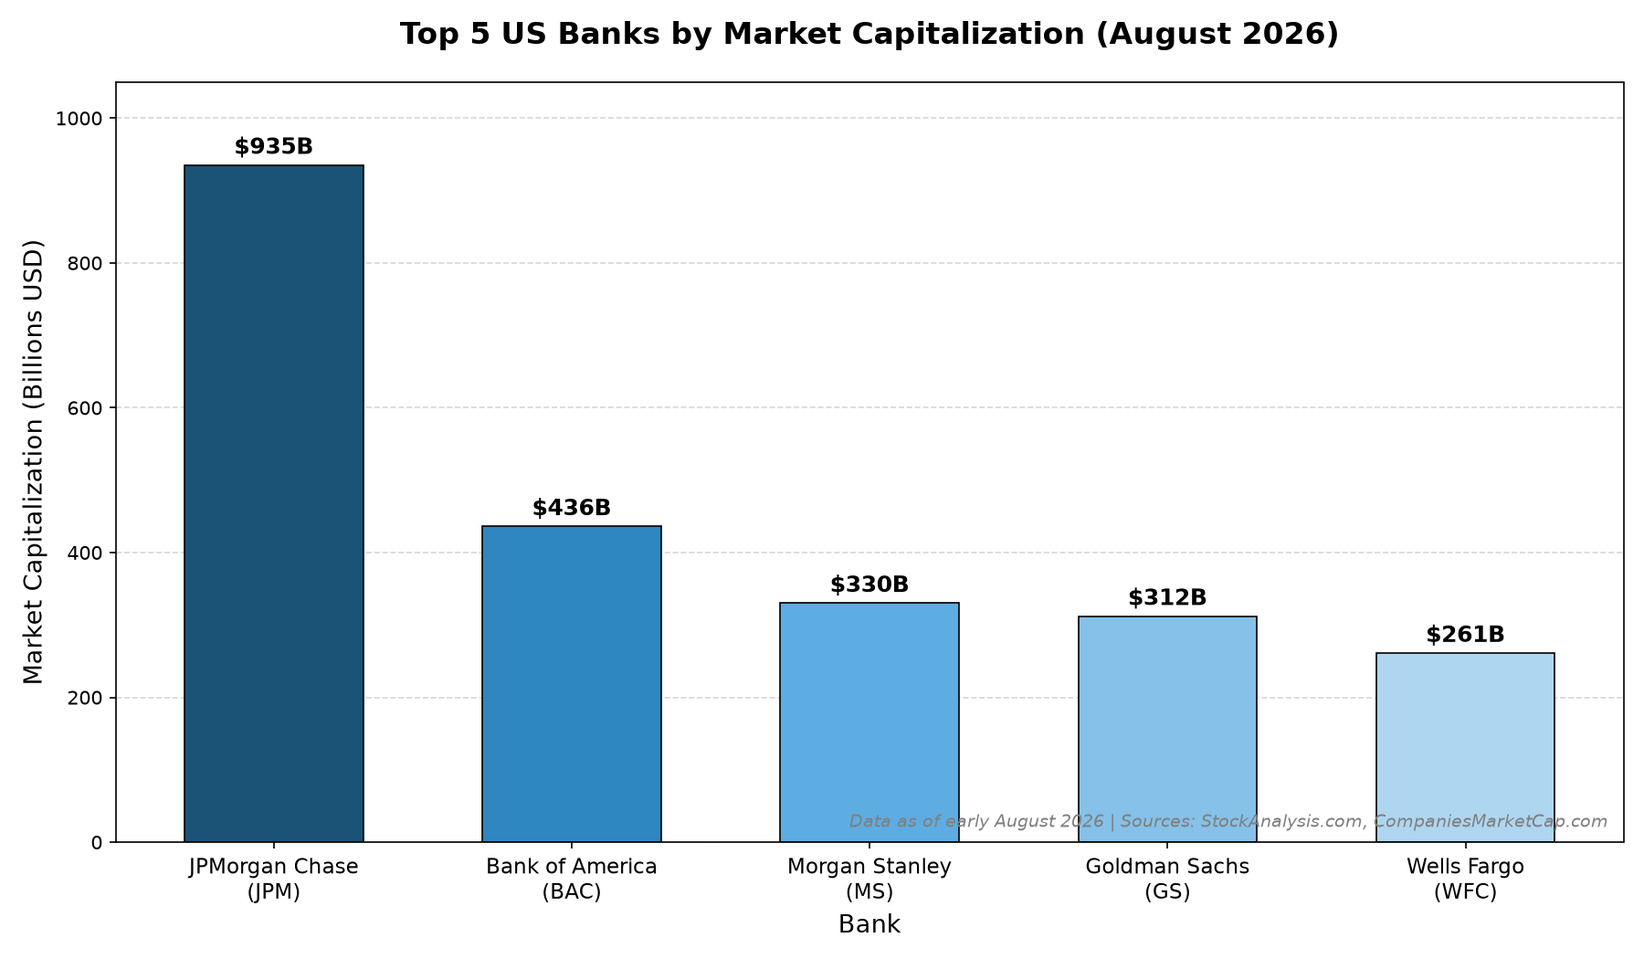
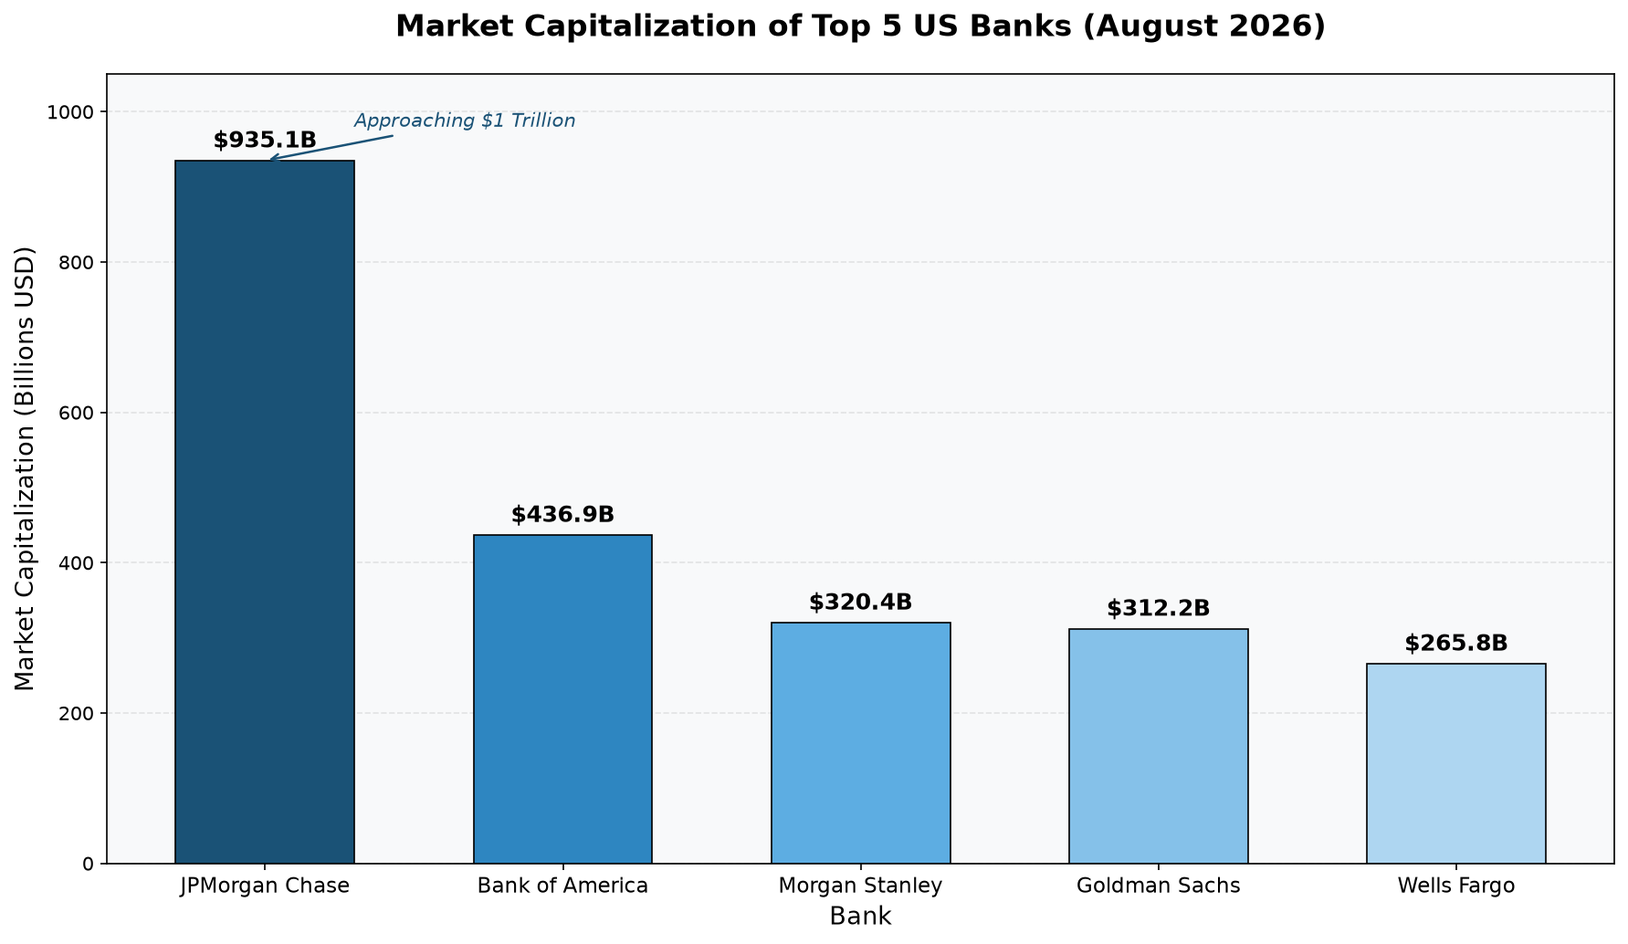
docs(eval): 课21 L7 补充 SpanQuery/回写实操+错例判读, L10/L6 笔记微调
Claude-Session: https://claude.ai/code/session_01XqWTFFDHWqhaw9SissKYUR

diff --git a/agent/courses/eval/21-Evaluating AI Agents/code/L7/demo_span_query.py b/agent/courses/eval/21-Evaluating AI Agents/code/L7/demo_span_query.py
@@ -1,0 +1,45 @@
+"""演示 1: trace 是可程序化查询的数据集 — 同一批 span, 按不同条件切出不同的'表'"""
+import pandas as pd
+from phoenix.client import Client
+from phoenix.client.types.spans import SpanQuery
+
+pd.set_option("display.max_colwidth", 60)
+pd.set_option("display.width", 200)
+
+client = Client(base_url="http://localhost:6006")
+PROJECT = "evaluating-agent"
+
+print("=" * 70)
+print("查法① 宽条件: 项目里所有 span (只取 span_kind 一列, 看全貌)")
+df = client.spans.get_spans_dataframe(
+    query=SpanQuery().where("span_kind in ('AGENT','CHAIN','LLM','TOOL')").select("span_kind"),
+    project_name=PROJECT,
+    timeout=120,
+)
+print(f"   -> DataFrame: {df.shape[0]} 行 x {df.shape[1]} 列")
+print(f"   -> 索引是什么: {df.index.name}, 例如 {df.index[0]}")
+print(f"   -> span 种类分布:\n{df.iloc[:, -1].value_counts().to_string()}")
+
+print()
+print("=" * 70)
+print("查法② where 过滤 + select 投影: 只要 AGENT span 的问题和最终回答")
+q = SpanQuery().where("span_kind == 'AGENT'").select("input.value", "output.value")
+agent_df = client.spans.get_spans_dataframe(query=q, project_name=PROJECT, timeout=120)
+print(f"   -> {agent_df.shape[0]} 行 x {agent_df.shape[1]} 列 (列被裁成 select 的两个)")
+print(agent_df.head(3).to_string())
+
+print()
+print("=" * 70)
+print("查法③ 按 span 名字过滤: 只要画图工具的输出 (= Runnable Code Eval 的输入)")
+q = SpanQuery().where("name == 'generate_visualization'").select("output.value")
+viz_df = client.spans.get_spans_dataframe(query=q, project_name=PROJECT, timeout=120)
+print(f"   -> {viz_df.shape[0]} 行")
+print("   -> 第一行 output.value 前 120 字符:")
+print("      " + str(viz_df.iloc[0, 0])[:120].replace("\n", " / "))
+
+print()
+print("=" * 70)
+print("查法④ 字符串包含: 只要提示词里带 'Generate an SQL query' 的 LLM span")
+q = SpanQuery().where("span_kind == 'LLM' and 'Generate an SQL query' in input.value")
+sql_df = client.spans.get_spans_dataframe(query=q, project_name=PROJECT, timeout=120)
+print(f"   -> {sql_df.shape[0]} 行 (同一批 trace, 换个条件就切出另一张表)")

diff --git a/agent/courses/eval/21-Evaluating AI Agents/code/L7/demo_writeback.py b/agent/courses/eval/21-Evaluating AI Agents/code/L7/demo_writeback.py
@@ -1,0 +1,35 @@
+"""演示 2: 评估结果回写 — 发明一个课程里没有的评估 'Answer Brevity Demo'
+
+流程 = L7 的通用三步:
+  ① SpanQuery 导出目标 span (拿到以 span_id 为索引的 DataFrame)
+  ② 打标签 (这里用纯代码: 回答字数 < 800 算 concise, 否则 verbose)
+  ③ log_span_annotations_dataframe 回写 (靠 DataFrame 索引里的 span_id 对号入座)
+"""
+import pandas as pd
+from phoenix.client import Client
+from phoenix.client.types.spans import SpanQuery
+
+client = Client(base_url="http://localhost:6006")
+PROJECT = "evaluating-agent"
+
+# ① 导出: 所有 AGENT span 的最终回答
+q = SpanQuery().where("span_kind == 'AGENT'").select("output.value")
+df = client.spans.get_spans_dataframe(query=q, project_name=PROJECT, timeout=120)
+df = df.rename(columns={"output.value": "response"}).dropna(subset=["response"])
+print(f"① 导出 {len(df)} 个 AGENT span, 索引 = {df.index.name}")
+
+# ② 打标签: 纯 pandas, 不涉及任何 LLM
+df["chars"] = df["response"].str.len()
+df["label"] = df["chars"].map(lambda n: "concise" if n < 800 else "verbose")
+df["score"] = (df["label"] == "concise").astype(int)
+print("② 打完标签的评估表 (前 5 行):")
+print(df[["chars", "label", "score"]].head(5).to_string())
+print(f"   简洁率: {df['score'].mean():.2f}")
+
+# ③ 回写: 只需要 label/score 两列, span_id 在索引里
+client.spans.log_span_annotations_dataframe(
+    dataframe=df[["label", "score"]],
+    annotation_name="Answer Brevity Demo",
+    annotator_kind="CODE",
+)
+print(f"③ 已把 {len(df)} 条 'Answer Brevity Demo' 注解回写到 Phoenix — 去 UI 刷新看新徽章")

diff --git a/agent/courses/eval/21-Evaluating AI Agents/notes/L7-补充2-学习路径-错例判读与Phoenix定位.md b/agent/courses/eval/21-Evaluating AI Agents/notes/L7-补充2-学习路径-错例判读与Phoenix定位.md
@@ -1,0 +1,80 @@
+# L7 补充 2：学习路径、错例判读与 Phoenix 定位
+
+> 2026-08-06 结合本地 Phoenix（`evaluating-agent` 项目）实操 L7 的对话沉淀。
+> 姊妹篇：《L7-补充-把trace当数据集-SpanQuery导出与评估回写实操》（SpanQuery 四种查法、回写 demo、坑记录）。
+> 配套脚本：`code/L7/demo_span_query.py`、`code/L7/demo_writeback.py`。
+
+## L7 的推荐学习路径（五步）
+
+1. **先看"评估前"的裸 trace**：跑评估之前，在 UI 里点开一条 trace 认清 span 树的四类角色——顶层 AGENT（input=问题/output=最终回答）、LLM（Router 决策，`llm.output_messages` 里有 tool_calls）、tool span（如 `generate_visualization`）、SQL 生成类 LLM span。刻意记属性名（`input.value`/`output.value`），**UI 里的属性名 = SpanQuery DSL 里的字符串**，这个对应关系建立了这节课就通了。
+2. **跑 `main.py`**：6 个问题产 trace → 四个评估 → 回写。本地版只评当次运行的 span（`start_time=run_started_at`），历史 trace 没注解是正常的。
+3. **UI 逐层验证**：项目聚合 μ 值 ↔ 终端打印的正确率对数；单 span 看徽章明细；按注解过滤看错例。
+4. **错例判读**（见下文）：先审 judge 再动 agent。
+5. **自己加第五个评估**：照 SQL 评估那 20 行模板走一遍"过滤 → 打分 → 回写"，能独立完成说明三步流程内化了（Answer Brevity Demo 即为示例，纯 pandas 约 15 行）。
+
+## 错例判读实战：μ0.74 的真相
+
+Router 的 `Tool Calling Eval` 只有 0.74，过滤 `annotations['Tool Calling Eval'].label == 'incorrect'` 出来 10 条错例，点开第一条：
+
+- 问题 "What was the average transaction value?" 的**第二轮** Router 决策：第一轮已查到 19.018132，第二轮调 `analyze_sales_data(data="...19.018132", prompt=...)`——**行为本身合理**（先查数、再分析）。
+- 但 judge 的 rubric 写着"工具参数包含问题中没有的信息就算 incorrect"，`data` 参数里的数字不来自问题本身，于是被判错。
+
+结论：**分数低不是 agent 差，而是 judge 的 rubric 按"单轮问题→单个工具调用"设计，不适配多轮场景。**
+
+由此得出 L7 最重要的一课：**拿到评估分数后，第一件事不是优化 agent，而是抽查错例、先审 judge。** 修法是改 `TOOL_CALLING_PROMPT`（如声明"工具参数可来自对话历史中的工具结果"）再重跑对比 μ 值。
+
+## Phoenix 到底是什么：三层定位
+
+"Phoenix 就是收 trace 然后展示"只说对了地基。它是完整的 LLM 可观测 + 评估平台：
+
+```mermaid
+flowchart TB
+    subgraph L1[第一层 Tracing 数据底座]
+        A[OpenInference/OTel 自动埋点] --> B[(span 数据库\n磁盘 SQLite)]
+        B --> C[UI 展示 span 树]
+    end
+    subgraph L2[第二层 评估数据库 L7 在这]
+        B -->|SpanQuery 程序化导出| D[DataFrame]
+        D -->|代码/LLM judge 打分| E[label+score]
+        E -->|注解回写| B
+        B --> F[μ聚合/错例过滤/趋势]
+    end
+    subgraph L3[第三层 实验与迭代 L10/L11]
+        G[Datasets 固定测试集] --> H[Experiments 版本对比]
+        I[Playground 改prompt重放]
+        J[Dashboards 持续监控]
+    end
+    L1 --> L2 --> L3
+```
+
+- **UI 只是这个数据库的一个只读窗口（走 GraphQL）**；真正的生产资料是 REST API 这条程序化读写通道，评估、实验、监控全建在它上面。
+- 课程标题是 "Evaluating AI Agents" 而不是 "Tracing"——tracing 只是为评估闭环供数。
+
+## 注解回写到底啥意思、起什么作用
+
+**一句话：把"批改结果"钉在"考卷原件"上，而不是记在自己的小本本里。**
+
+不回写时，评估结果只活在脚本内存的 DataFrame 里——脚本退出就没了，顶多 print 一个"正确率 0.74"；分数和证据是断开的，"哪几条错、错时现场什么样"答不上来。回写（`log_span_annotations_dataframe`）把每行 label/score 作为注解记录写进 Phoenix 数据库，靠 DataFrame 索引里的 span_id 挂回当初被评估的那个 span，从此判定与完整现场永久绑定。
+
+绑定解锁四个能力：
+
+1. **从分数下钻到证据**：μ0.74 → 过滤错例 → 看现场 → 定位是 judge rubric 问题。链路每一步都依赖注解和 span 长在一起。
+2. **聚合与趋势**：UI 的 μ 值、时间范围质量曲线、Dashboards 都是对注解表的聚合；改 prompt 前后两批数据一对比就知道有没有变好。
+3. **单一事实源**：同事打开同一条 trace 看到同样的判定；L9 人工标注（详情页铅笔图标）写进同一张表，机器判与人判并存互校。
+4. **喂给下一环**：注解本身可查询——把 incorrect 的 case 攒成 Dataset，之后每版 prompt 跑实验回归对比（L10/L11 的入口）。
+
+反过来记：**不回写，评估是一次性 print；回写了，评估才是可下钻、可聚合、可对比、可共享的资产。** 类比：代码 review 评论必须写在 PR 的具体行上才落地。
+
+## 新版 Phoenix UI 寻宝图（与课程视频差异）
+
+- **评估聚合不在页面顶部横条**（旧版 UI），在 Spans 页**右侧 Project Info → Stats → SPAN ANNOTATIONS**，形式为 `μ 平均分`。
+- **聚合跟随当前过滤条件**：默认 `parent_id is None`（只看根 span）时，挂在子 span 的评估显示 `--`；清掉过滤四项才全出来。
+- 注解徽章两个位置:列表 annotations 列的小胶囊（多条折叠成 `+N`）；span 详情 Info 首行 `Annotations N`，点徽章看 label/score/author。
+- 徽章只挂在**被评估的 span 那一层**：`Tool Calling Eval` 在 LLM 的 ChatCompletion 上，外层 `router_call`(chain) 是 0——找不到徽章先确认点的层级对不对。
+- 过滤框一点开就有 `annotations[...]` 字段自动补全，错例过滤直接写 `annotations['Tool Calling Eval'].label == 'incorrect'`。
+
+## 环境坑速查（详见姊妹篇坑记录）
+
+- **系统代理截胡 localhost**：Shadowrocket 开系统代理时，Python httpx 读 macOS 系统代理但**读不到例外列表**（系统 bypass 里加了 localhost 也没用，httpx 不消费它），phoenix client 全 503。特征：响应头 `proxy-connection: close` + Phoenix 日志无请求 + UI 正常。解法：shell 配置 `export no_proxy="localhost,127.0.0.1"`（有任何 `*_proxy` 环境变量时 Python 就完全忽略系统代理），或脚本前缀 NO_PROXY、httpx `trust_env=False`。
+- **503 别急着重启**：先看服务端日志有没有收到请求。Phoenix 数据在磁盘 SQLite（`code/.phoenix/phoenix.db`），重启虽不丢数据但多半治不了标。
+- **空条件 SpanQuery 打挂服务端**；tool span Info 页有渲染 bug 切 Attributes 看。

diff --git a/agent/courses/eval/21-Evaluating AI Agents/notes/L7-补充-把trace当数据集-SpanQuery导出与评估回写实操.md b/agent/courses/eval/21-Evaluating AI Agents/notes/L7-补充-把trace当数据集-SpanQuery导出与评估回写实操.md
@@ -1,0 +1,92 @@
+# L7 补充：把 trace 当数据集——SpanQuery 导出与评估回写实操
+
+> L7 正文讲了"导出 → 打标签 → 回写"三步，但"trace 不只是看的"这件事光看 UI 没有体感。
+> 本篇是在本地 Phoenix（`evaluating-agent` 项目，380 个 span）上实跑的记录，配套两个可跑脚本：
+>
+> - `code/L7/demo_span_query.py` —— 同一批 span 的四种查法
+> - `code/L7/demo_writeback.py` —— 现场发明一个课程里没有的评估并回写
+>
+> 运行（注意 `NO_PROXY` 前缀，原因见文末坑记录）：
+>
+> ```bash
+> cd code/L7
+> NO_PROXY="localhost,127.0.0.1" no_proxy="localhost,127.0.0.1" ../.venv/bin/python demo_span_query.py
+> NO_PROXY="localhost,127.0.0.1" no_proxy="localhost,127.0.0.1" ../.venv/bin/python demo_writeback.py
+> ```
+
+## 核心认知：UI 只是数据库的一个只读窗口
+
+Phoenix 把每次 agent 运行拆成 span 存进磁盘 SQLite（本课的库在 `code/.phoenix/phoenix.db`）。UI 走 GraphQL 展示它；而 `SpanQuery` DSL 走 REST API 把它**当数据表查**。评估、实验、监控全部建立在这条程序化读写通道上——这是 Phoenix 区别于普通日志系统的地方。
+
+```mermaid
+flowchart LR
+    A[Agent 运行\n自动埋点] -->|OTLP| B[(Phoenix\nSQLite 库\n380 个 span)]
+    B -->|"① SpanQuery 导出\nwhere + select"| C[pandas DataFrame\n索引 = span_id]
+    C -->|"② 打标签\n代码 or LLM judge"| D[label / score 列]
+    D -->|"③ log_span_annotations\n按 span_id 对号入座"| B
+    B --> E[UI 徽章 / μ聚合 / 错例过滤]
+```
+
+## 实验 1：同一批 span，换个条件就是另一张表
+
+`demo_span_query.py` 对同一个项目连查四把：
+
+| 查询 | 条件 | 结果 |
+|---|---|---|
+| ① 全貌 | `span_kind in ('AGENT','CHAIN','LLM','TOOL')` + select `span_kind` | 380 行：CHAIN 166 / LLM 135 / TOOL 55 / AGENT 24 |
+| ② 问答对 | `span_kind == 'AGENT'` + select `input.value`, `output.value` | 24 行两列，即 Response Clarity 评估的原料 |
+| ③ 画图代码 | `name == 'generate_visualization'` + select `output.value` | 4 行，内容开头就是 `import matplotlib...` |
+| ④ SQL 生成 | `span_kind == 'LLM' and 'Generate an SQL query' in input.value` | 31 行 |
+
+这正呼应 L7 正文那句"设计评估最难的一步是过滤出正确的那批 span"——`where` 可组合 span_kind、name、任意属性、字符串包含。
+
+## 关键机制：DataFrame 的索引就是 span_id
+
+导出的 DataFrame 索引是 `context.span_id`（如 `02bff35fa00dc45b`）。**这就是回写不神奇的原因**：每行自带身份证，打完标签把 `label`/`score` 两列交回去，Phoenix 按索引把标签贴回对应 span，全程不需要手写任何匹配逻辑。
+
+```
+                  chars    label  score
+context.span_id
+1f442b466be930d1     75  concise      1
+819ea2deee58b887   1117  verbose      0
+```
+
+## 实验 2：三步发明一个新评估（Answer Brevity Demo）
+
+`demo_writeback.py` 用纯 pandas（不涉及 LLM）造了一个课程里不存在的评估——回答超 800 字算 verbose：
+
+```python
+# ① 导出
+q = SpanQuery().where("span_kind == 'AGENT'").select("output.value")
+df = client.spans.get_spans_dataframe(query=q, project_name=PROJECT, timeout=120)
+
+# ② 打标签
+df["label"] = df["response"].str.len().map(lambda n: "concise" if n < 800 else "verbose")
+df["score"] = (df["label"] == "concise").astype(int)
+
+# ③ 回写
+client.spans.log_span_annotations_dataframe(
+    dataframe=df[["label", "score"]],
+    annotation_name="Answer Brevity Demo",
+    annotator_kind="CODE",
+)
+```
+
+实跑结果：21 个 AGENT span，简洁率 0.81；唯一的 verbose 正是"画柱状图"那条 1117 字的长回答。刷新 UI 后每个 AgentRun 的注解徽章从 1 个变 2 个：`Response Clarity` 旁边多了 `Answer Brevity Demo`。
+
+核心代码约 15 行——**写一个新评估器的边际成本就这么低**，这也是为什么 L7 结尾鼓励"给每个部位都配评估器"。
+
+## UI 里注解徽章在哪（新版 Phoenix）
+
+- **Spans/Traces 列表**的 annotations 列：每行的小胶囊（多条时折叠成 `+2`）
+- **span 详情面板**：Info 标签下第一行 `Annotations N [徽章...]`，点徽章看 label/score/author 明细
+- **项目聚合**：Spans 页右侧 Project Info → Stats → SPAN ANNOTATIONS，显示 `μ 平均分`。注意它**跟随当前过滤条件**——默认 `parent_id is None`（只看根 span）时，挂在子 span 上的评估会显示 `--`，清掉过滤才能看到全部四项
+- **错例过滤**：过滤框输入 `annotations['Tool Calling Eval'].label == 'incorrect'` 即可只看 judge 判错的 span
+- 徽章只挂在**被评估的那个 span** 上：`Tool Calling Eval` 在 LLM 的 ChatCompletion 上，外层 `router_call`（chain）的 Annotations 是 0
+
+## 坑记录
+
+1. **系统代理截胡 localhost（本次最大坑）**：Mac 开着系统级代理（127.0.0.1:1082）时，Python httpx（phoenix client 底层）会读 **macOS 系统代理设置**（即使 `env | grep proxy` 为空！），把发往 `localhost:6006` 的请求交给代理，全量 503。诊断特征：响应头带 `proxy-connection: close` + Phoenix 服务端日志无请求记录 + UI 一切正常（浏览器有自己的绕行规则，极具迷惑性）。解法：脚本加 `NO_PROXY` 前缀（临时）或在代理工具绕过列表加 localhost（根治）。`main.py` 同样受影响，会随代理开关"时好时坏"。
+2. **空条件 SpanQuery 会打挂服务端**：`SpanQuery()` 不带 where 拉全量直接 503/超时，导出永远带过滤条件；全库大了之后（本库 936MB）宽查询还要配大 `timeout` 和窄 `select`。
+3. **误判不要急着重启**：503 时先看服务端日志有没有收到请求，再决定是不是服务问题。Phoenix 数据在磁盘 SQLite，重启不丢——但本次的 503 根本不是服务问题。
+4. **tool span 的 Info 页渲染 bug**：`generate_visualization` 的详情 Info 标签白屏（React error #31，渲染 tool JSON schema 触发），切 Attributes 标签看原始属性即可，数据无损。

diff --git a/agent/courses/eval/Building and Evaluating Data Agents/notes/L6-用内联评测与Prompt改写提升GPA收官.md b/agent/courses/eval/Building and Evaluating Data Agents/notes/L6-用内联评测与Prompt改写提升GPA收官.md
@@ -8,7 +8,7 @@
 L5 停在"知道 agent 病在哪"（Q1 的 plan adherence = 0，行动没照计划走）。本课开场给出改 GPA 的**常见手段清单**：
 
 | 手段 | 做法 | 治哪种病 |
-|---|---|---|
+| --- | --- | --- |
 | **调 planning prompt** | 给每步加显式 subgoal + pre/post condition | 计划含糊、执行不知每步该干嘛 |
 | **inline evaluation** | 运行中实时给 agent 反馈分数+解释 | 检索漏关键信息、无法当场纠偏 |
 | 调 retriever / 换模型 | 调检索参数、试不同 LLM | 检索病、生成病 |
@@ -38,6 +38,7 @@ def cortex_agents_research_node(state: State) -> Command[...]:
 ```
 
 要点：
+
 - inline eval **直接跑在** node 声明的 span attributes 上（复用 L4 埋点，不重复造轮子）；
 - 评完的 **score + explanation 追加进 state 的 messages**——这就是"反馈进 memory"的落地方式；
 - 效果：agent 做完一次 research 能"看见"自己检索得好不好，**缺料就补检索、必要就 replan**，而不是一条道走到黑。
@@ -46,7 +47,7 @@ def cortex_agents_research_node(state: State) -> Command[...]:
 
 ## 2. 招式二：改 Planning Prompt（给每步装上 pre/post condition）
 
-L5 诊断的病根是 plan adherence——executor 不知道每步到底要达成什么，就容易跑偏。对症下药：**扩展 planning prompt 的输出模板**，逼 planning LLM 给每步显式写出 **precondition / postcondition / goal 描述**：
+L5 诊断的病根是 plan adherence（计划遵循度）——executor 不知道每步到底要达成什么，就容易跑偏。对症下药：**扩展 planning prompt 的输出模板**，逼 planning LLM 给每步显式写出 **precondition / postcondition / goal 描述**：
 
 ```python
 # 概念示意（据课程讲述重构）：patch 掉原 plan prompt 的输出模板
@@ -77,7 +78,7 @@ tru_recorder = TruGraph(
 **Leaderboard 对比**（新版 vs base 版）：
 
 | 指标 | 变化 | 解读 |
-|---|---|---|
+| --- | --- | --- |
 | Answer Relevance | ↑ 提升 | 答得更切题 |
 | Groundedness | ↑ **提升明显** | 补检索让论断更有据 |
 | Context Relevance | ≈ 持平 | 检索相关性没动 |
@@ -123,7 +124,7 @@ improved 版右侧**多出的 web/cortex research 调用**，正是 **inline eva
 ### ② L1-L6 全课回顾表
 
 | 课 | 主题 | 交付物 / 核心动作 | 引入的关键概念 |
-|---|---|---|---|
+| --- | --- | --- | --- |
 | L1 | Data agent 是什么 | 定义 + 何时可信 | LLM 驱动、连数据源、query 分解→检索→分析→可视化 |
 | L2 | 搭多 agent workflow | 用 LangGraph 实现分层 agent | planner→executor→子 agent（web researcher / chart generator / chart summarizer / synthesizer） |
 | L3 | 接企业数据 | 加 cortex researcher | Snowflake Cortex Analyst（text-to-SQL）+ Cortex Search（会议纪要） |
@@ -140,6 +141,7 @@ improved 版右侧**多出的 web/cortex research 调用**，正是 **inline eva
 > **① data agent 何时值得上多 agent 架构？** 当任务需要**跨异构数据源做 query 分解 + 多步研究 + 合成**（本课：Snowflake 结构化 deal 数据 + 非结构化会议纪要 + web 新闻三源汇聚）时,单体 agent 的 prompt 塞不下也调不动,分层 planner/executor + 专职子 agent 才划算。反过来,若查询只是单表 text-to-SQL(如 Q1"top 3 deals"),多 agent 是过度设计——一个 Cortex Analyst 调用就够,多出的 planner/executor 只会拉低 execution efficiency。**判据:数据源是否异构 + 是否需要跨源合成 + 步骤是否需要动态 replan。**
 >
 > **② data agent 的评测该测什么?** 两层缺一不可,且**必须解耦成多指标**:
+>
 > - **输出层(RAG Triad)** 回答"答得对不对"——context relevance(检索准不准)、groundedness(有没有编)、answer relevance(切不切题)。三者解耦才能区分"检索病"与"生成病"。
 > - **过程层(GPA)** 回答"过程健不健康"——plan quality/adherence/efficiency/consistency。对多步 agent,过程可评估性 = 可调试性;只测输出你永远不知道错在决策链哪环。
 >
@@ -148,7 +150,7 @@ improved 版右侧**多出的 web/cortex research 调用**，正是 **inline eva
 ## 本课总结
 
 | 要点 | 一句话 |
-|---|---|
+| --- | --- |
 | Inline evaluation | 运行时评某步、把分数+解释写回 state，让 agent 当场补检索/replan |
 | 改 planning prompt | 每步加 pre/post condition + goal，executor 更懂每步目标→改善 adherence |
 | 版本化回归 | 换描述性 app_version、复用同组 query、Compare 视图并排对比 trace 与指标 |

diff --git a/agent/courses/eval/21-Evaluating AI Agents/notes/L10-评估驱动开发EDD.md b/agent/courses/eval/21-Evaluating AI Agents/notes/L10-评估驱动开发EDD.md
@@ -64,7 +64,7 @@ expected_output: "SELECT Store_Number, SUM(Total_Sale_Value) ... ORDER BY ... LI
 ## 例：评估数据分析工具（无 ground truth）
 
 测试用例只有 `input + 检索到的数据`，**没有 expected output**——开放式分析没法预先写答案。
-评估器：**Analysis Clarity** + **Entity Correctness**（两个 LLM-as-a-judge）。
+评估器：**Analysis Clarity（回答清晰度）** + **Entity Correctness（实体正确性）**（两个 LLM-as-a-judge）。
 
 ## 评估总览：HUD（Heads-Up Display）
 
